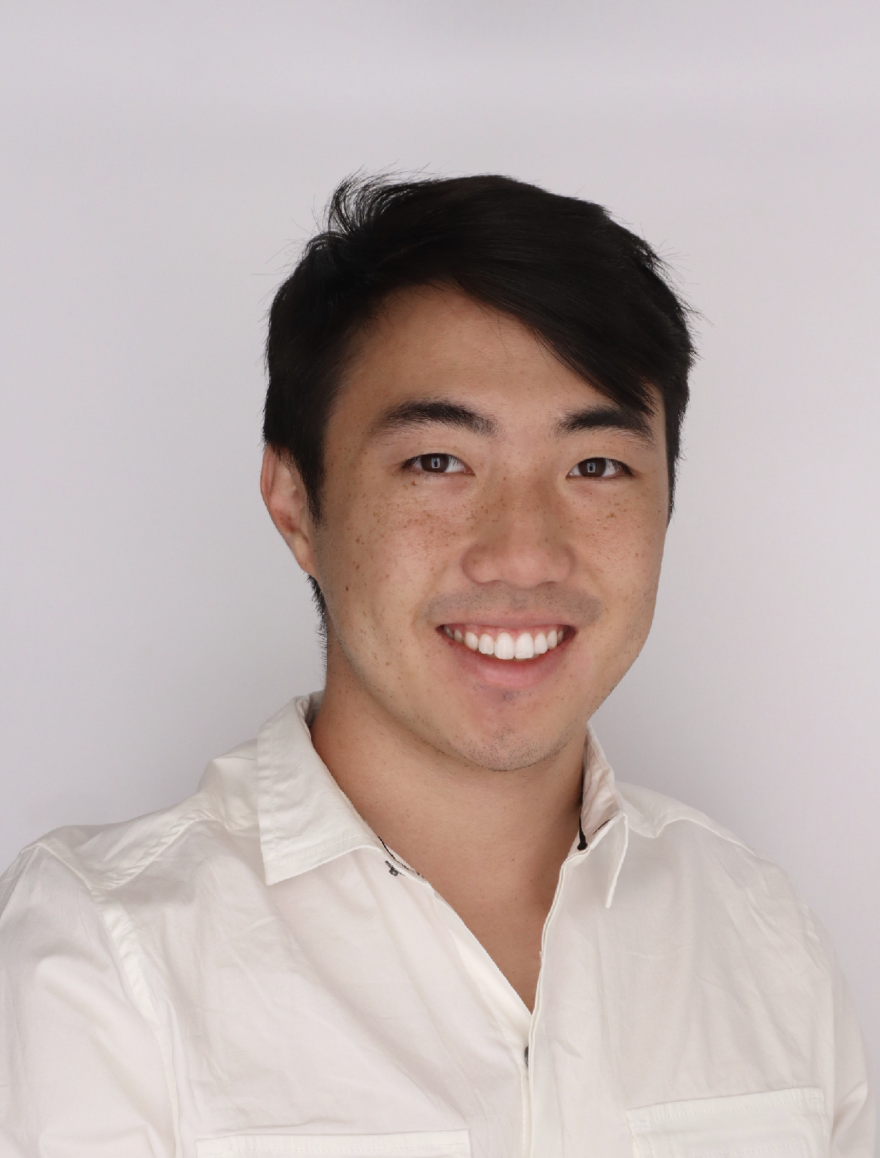
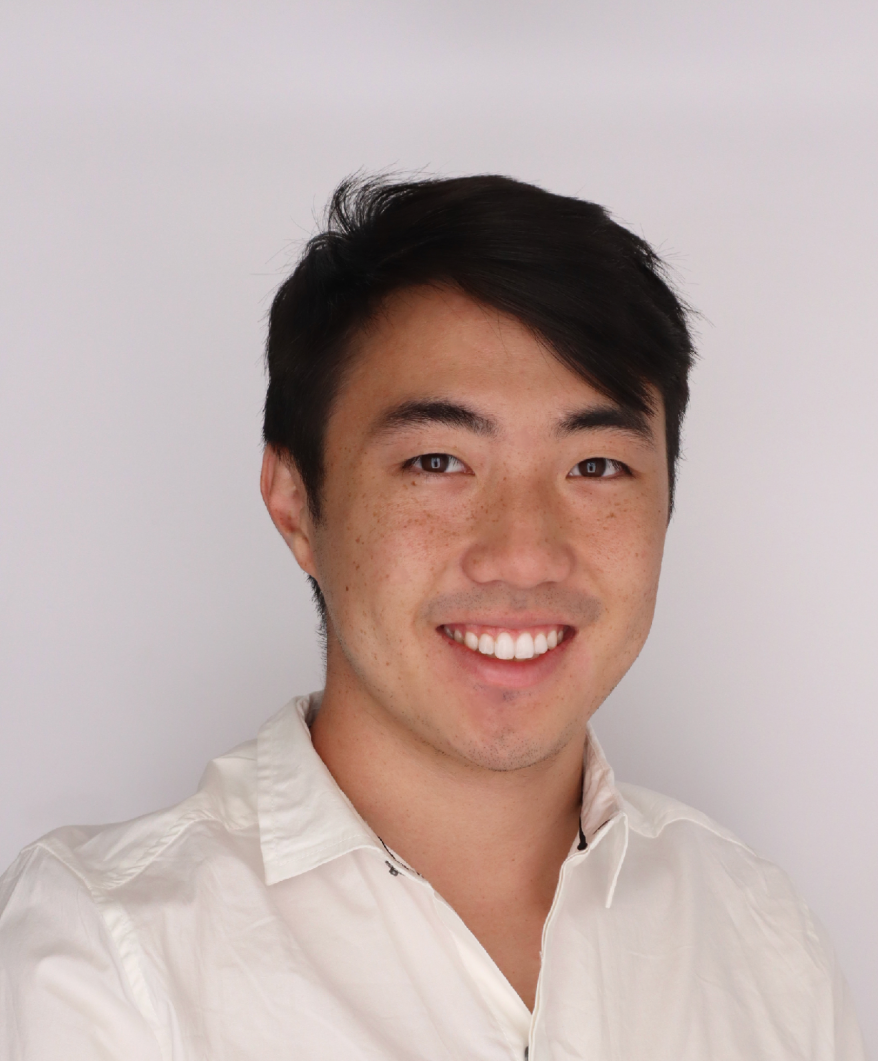
details of board added

diff --git a/src/pgccConstants.js b/src/pgccConstants.js
@@ -1,11 +1,25 @@
 import USER from "./assets/icons/user.png";
 import MONEY from "./assets/icons/money.png";
 import FOLDER from "./assets/icons/folder.png";
+
 import NUMBERONE from "./assets/icons/numbers/1.png";
 import NUMBERTWO from "./assets/icons/numbers/2.png";
 import NUMBERTHREE from "./assets/icons/numbers/3.png";
 import NUMBERFOUR from "./assets/icons/numbers/4.png";
 import NUMBERFIVE from "./assets/icons/numbers/5.png";
+
+import JIHANCHEN from "./assets/headshots/JihanChen.jpg";
+import MARCOSSANCHEZNAVARRO from "./assets/headshots/MarcosSanchezNavarro.jpg";
+import SHIYAONING from "./assets/headshots/ShiyaoNing.jpg";
+import RILKWONG from "./assets/headshots/RilkWong.jpg";
+import ZHIHUISI from "./assets/headshots/ZhihuiSu.jpeg";
+import UTKARSHKHANDELWAL from "./assets/headshots/UtkarshKhandelwal.jpg";
+import ETHANTSE from "./assets/headshots/EthanTse.png";
+import SUSANNABELT from "./assets/headshots/SusannaBelt.jpeg";
+import SIROUWANG from "./assets/headshots/SirouWang.jpg";
+import SEZINADAYAYDIN from "./assets/headshots/SezinAdayAydin.jpg";
+import ALICEHOU from "./assets/headshots/AliceHou.jpg";
+import SHREYASRAORANE from "./assets/headshots/ShreyasRaorane.jpg";
 
 // Navbar
 export const HOME = "";
@@ -60,10 +74,10 @@ export const PGCCGetInvolvedList = [
     id: "PGCCGetInvolved1",
     titleIcon: USER,
     title: "Join Our Executive Board",
-    para: `Are you a graduate candidate or post-doc interested in consulting looking to be part of our organization? Applications now open for co-chair of case competition, VP for finance, VP for career development, and VP for business administration.`,
+    para: `Are you a graduate candidate or post-doc interested in consulting looking to be part of our organization? Applications Open!`,
     buttonText: "Learn more and apply",
     buttonRoute:
-      "https://docs.google.com/forms/d/e/1FAIpQLSfeOiYdNQLtip8O-Hzjzu-NNe0WmE5KBOFTy4bxV4vcfhIO3A/viewform",
+      "https://docs.google.com/forms/d/e/1FAIpQLSfC4CrmC7CDmbE9xSZ7_tMwBMKTfObncPPYZxS0uEaA_rXFKg/viewform",
   },
   {
     id: "PGCCGetInvolved2",
@@ -137,6 +151,117 @@ export const OurFocusList = [
     numImg: NUMBERFIVE,
     numImgAlt: "NUMBERFIVE",
     para: `Helping consulting firms facilitate the recruitment of non-MBA graduate students at Penn`,
+  },
+];
+
+export const execBoardList = [
+  {
+    id: `jihan`,
+    content: `Jihan is a 2nd-year MS candidate in the Computer and Information Technology (MCIT) program in the School of Engineering and Applied Sciences. Prior to becoming Co-President, he was a VP of Marketing Strategy at PGCC in the 2023-2024 academic year. While varied, his career interests include software engineering, product management, technology consulting, and management consulting. As Co-President, Jihan hopes to continue expanding PGCC’s influence on Penn’s campus, level up PGCC’s technological front, and bring more high-quality in-person events and programs to PGCC members and those interested in consulting and business-relevant careers. Outside of PGCC and his CS coursework, Jihan enjoys learning hip-hop and k-pop choreographies, reading, and city-walking.`,
+    name: "Jihan Chen",
+    title: "Co-President",
+    linkedin: "https://www.linkedin.com/in/9912-jihan-chen/",
+    email: "jihanc@seas.upenn.edu",
+    image: JIHANCHEN,
+  },
+  {
+    id: `marcos`,
+    content: `Marcos Sanchez is a 5th year PhD Candidate in the Neuroscience Graduate Group (NGG) at the Perelman School of Medicine. His PhD thesis work seeks to understand how obesity impacts neural circuits encoding the rewarding value of food and regulating appetite to identify more effective pharmacotherapies to treat obesity. Marcos is fascinated by the intersection of science, innovation, and real-world applications; therefore, he is interested in pursuing careers in life science consulting, or more broadly, biopharmaceutical companies. Prior to becoming Co-President, he was a VP of Operations at PGCC in the 2023-2024 academic year. As Co-President of PGCC, Marcos is dedicated to ensuring PGCC continues to improve and provides its members experience and all the necessary tools to succeed in the world of management consulting. Outside of PGCC and the laboratory setting, Marcos is an avid sports fan, enjoys dancing salsa and bachata, playing video games, and loves going to the beach.`,
+    name: "Marcos Sanchez",
+    title: "Co-President",
+    linkedin: "/about",
+    email: "Sanma@pennmedicine.upenn.edu",
+    image: MARCOSSANCHEZNAVARRO,
+  },
+  {
+    id: `shiyao`,
+    content: `Shiyao is a first-year Master of Biotechnology candidate at Penn Engineering. She recently graduated from the University of Toronto with majors in Biochemistry and Human Biology and is now moving into biotechnology consulting and investment. As Co-VP of Marketing Strategy for PGCC, Shiyao aims to enhance PGCC’s impact by engaging the campus community in exploring careers in consulting. She is enthusiastic about leveraging her past experiences at IQVIA management consulting and Mengniu Dairy's Corporate Venture Capital to bring insightful and interactive events to PGCC members. On weekends, Shiyao loves to spend time in nature with her friends and her dog, Tezzy.`,
+    name: "Shiyao Ning",
+    title: "Co-VP of Marketing Strategy",
+    linkedin: "http://linkedin.com/in/sning",
+    email: "sning@seas.upenn.edu",
+    image: SHIYAONING,
+  },
+  {
+    id: `rilk`,
+    content: `Rilk is a 1st-year Master of Science candidate in System Engineering at Penn Engineering. He has recently completed his bachelor degree of science in Financial Mathematics in Xi’an Jiaotong-Liverpool University, China. He has worked at an angel investment company and is interested in Data Analysis, Data Transaction and Tech Consulting. He has been responsible for several transnational landing projects and has rich experience in marketing. As the Co-VP of Marketing Strategy, Rilk hopes to maximize PGCC’s influence and benefit Graduate students at Penn as much as possible. Outside of PGCC and working, Rilk is an avid shutterbug, he also enjoys badminton, basketball and road trips.`,
+    name: "Rilk Wong",
+    title: "Co-VP of Marketing Strategy",
+    linkedin: "/about",
+    email: "rilk@seas.upenn.edu",
+    image: RILKWONG,
+  },
+  {
+    id: `zhihui`,
+    content: `Zhihui Su is a 5th year PhD Candidate in the Chemical and Biomolecular Engineering (CBE) in the School of Engineering and Applied Sciences (SEAS). Her PhD thesis work focuses on building synthetic membraneless organelles with intrinsically disordered protein linked with short coiled-coil peptide motifs. Beyond her research pursuits, Zhihui is deeply passionate about exploring the intersection of biotechnology and business, specifically pharmaceutical and life sciences consulting. Prior to becoming the Co-VP of Casing at PGCC, Zhihui has served as the Treasurer for American Chemical Society Biochemical Division (ACS BIOT) Mid-Atlantic Chapter in the 2021-2024 academic year; received Mini-MBA certificate from Penn Biotech Group (PBG) in 2023; and won fourth place in 2023 PBG Biotech Investment Research Program Pitch Competition. As Co-VP of Casing, Zhihui is dedicated to equipping members with business knowledge and analytical skills and engaging members with case interview workshops. Furthermore, Zhihui is also excited to organize case competition events. In her free time, Zhihui enjoys traveling, hiking, and working out.`,
+    name: "Zhihui Su",
+    title: "Co-VP of Casing",
+    linkedin: "https://www.linkedin.com/in/zhihui-su-813264a4/?locale=en_US",
+    email: "zhihuisu@seas.upenn.edu",
+    image: ZHIHUISI,
+  },
+  {
+    id: `utkarsh`,
+    content: `Utkarsh Khandelwal is a 4th-year PhD candidate in the Materials Science and Engineering (MSE) program in the School of Engineering and Applied Sciences (SEAS) at the University of Pennsylvania. His PhD research focuses on unraveling the complexities of light-matter interaction in quantum materials. Utkarsh is passionate about collaborating with brilliant minds and tackling intricate problems, which drives his academic and professional endeavors. Prior to assuming the role of VP of Casing, Utkarsh was an integral part of the Case-Aces team, which clinched first place in the prestigious 2024 Penn-Yale-Princeton-Columbia (PYPC) Case Competition. His experience in competitive casing has fueled his commitment to creating an engaging learning environment within PGCC, where members can deepen their understanding of case interviews and hone their skills through practice. As VP of Casing, Utkarsh is dedicated to facilitating comprehensive case interview workshops and organizing events that empower members to excel in their consulting pursuits. Outside of his academic and professional commitments, Utkarsh enjoys an active lifestyle. He loves going on runs, exploring nature through hikes, and immersing himself in a good book.`,
+    name: "Utkarsh Khandelwal",
+    title: "Co-VP of Casing",
+    linkedin: "https://www.linkedin.com/in/utkarsh-k-2aa0b5127/",
+    email: "kutkarsh@seas.upenn.edu",
+    image: UTKARSHKHANDELWAL,
+  },
+  {
+    id: `ethan`,
+    content: `Ethan Tse is a 2nd year Masters of Public Health (MPH) student at the Perelman School of Medicine. He completed his undergrad at California Polytechnic State University, San Luis Obispo, with a BS in Public Health and double minors in Entrepreneurship and Tech Policy. Passionate about healthcare, emerging technologies, and social impact, he's navigated a wide array of experiences ranging from PE/VC, consulting, business development, startups, public health research, and entrepreneurship. As a Co-VP of Career Development, Ethan's aims to support his peers in blazing their own trail into the world of consulting and beyond.  At Penn, he's also involved in Wharton Impact Venture Associates and Penn Biotech Group as the Co-VP of Case Competition. In his free time, Ethan can be found playing basketball, running half marathons, relaxing on the Schuylkill river trail, seeing family in NYC, and cultivating his entrepreneurial network.`,
+    name: "Ethan Tse",
+    title: "Co-VP of Career Development",
+    linkedin: "https://www.linkedin.com/in/ethan-tse-story/",
+    email: "ethan.tse@pennmedicine.upenn.edu",
+    image: ETHANTSE,
+  },
+  {
+    id: `susanna`,
+    content: `Susanna Belt is a 4th year doctoral candidate in Chemical and Biomolecular Engineering at the University of Pennsylvania. She completed her undergraduate degree in Chemical and Biological Engineering at Princeton University and her masters degree in Biomedical Engineering from Columbia University, where her research focused on developing bioprosthetic heart valves for use in pediatric patients. Her current research focuses on evaluating how cellular contractility controls extracellular matrix composition and function of developing hearts. It uses a combination of optical live imaging, RNA sequencing techniques, and second harmonic imaging to dissect these mechanosensitive cardiac pathways. Before joining the PGCC E-board as a Co-VP of Career Development, Susanna was on the graduate board for Advancing Women in Engineering (AWE) and was Co-President of the Chemical Engineering Graduate Association (CHEGA). As Co-VP of Career Development for PGCC, she is dedicated to curating events, such as collaborative workshops geared toward aiding students with each step of the hiring process, from resume building to interview prep, designed to not only connect members with not only career opportunities but also PGCC alumni to provide personal insight into the consulting industry. In her free time, she loves painting, traveling to new places, and reading in the rain.`,
+    name: "Susanna Belt",
+    title: "Co-VP of Career Development",
+    linkedin: "https://www.linkedin.com/in/susanna-belt/",
+    email: "sbelt@seas.upenn.edu",
+    image: SUSANNABELT,
+  },
+  {
+    id: `sirou`,
+    content: `Sirou Wang is a 2nd year student at the University of Pennsylvania majoring in Interdisciplinary Studies in Human Development with a concentration in basic counseling. With a strong background as an analyst and project manager on the PGCC Spotivity pro bono project, Sirou hopes to better PGCC by diversifying its projects and initiatives. In addition to her work with PGCC, Sirou was involved with the Penn Biotech Group as an analyst and is currently interning at Think Advanced Learning (TAL or Xue Er Si) as a course development intern. Alongside her internship, she runs her own English learning program. Sirou is passionate about pursuing opportunities related to education, educational consulting, and entrepreneurship. In her free time, she enjoys traveling, hanging out, yapping, painting, and playing the guitar.`,
+    name: "Sirou Wang",
+    title: "Co-VP of Pro Bono Projects",
+    linkedin: "https://www.linkedin.com/in/rose-wang-b4193b1b2",
+    email: "sirou@upenn.edu",
+    image: SIROUWANG,
+  },
+  {
+    id: `sezin`,
+    content: `Sezin is a postdoctoral fellow and project manager in the Bioengineering Department. She is an experienced researcher and tech transfer enthusiast who wants to create successful products/services that can significantly impact life sciences and improve patients' lives. Her research interests cover cell culture models, including organ-on-a-chip systems; micro- and nano-technologies for regenerative medicine; miRNAs in health and disease/injury; extracellular vesicles as therapeutics and biomarkers; and therapeutic angiogenesis. Before becoming the Co-VP of Pro Bono Projects at PGCC, Sezin was involved in 8 pro bono projects as manager/director. She was also a Penn Center for Innovation (PCI) fellow and a biotech venture team member. She got 2nd prize with her team at the Penn-Yale-Princeton, Columbia (PYPC) Case Competition and 1st prize at the PGCC Casebook Competition in 2023. As Co-VP of Pro Bono Projects, she aims to provide pro bono project opportunities that align with the interests of PGCC members and to attract new industry partners for the continuous growth of the club. She enjoys journaling, reading, and spending time with her cats in her free time.`,
+    name: "Sezin Aday Aydin",
+    title: "Co-VP of Pro Bono Projects",
+    linkedin: "https://www.linkedin.com/in/sezin-aday-aydin/",
+    email: "sezin@seas.upenn.edu",
+    image: SEZINADAYAYDIN,
+  },
+  {
+    id: `alice`,
+    content: `Alice is an incoming Master of Biotechnology candidate at Penn Engineering. She graduated from Emory University in 2023 with a major in Biology and a minor in Economics. Currently, she works in the neurology lab at the Children's Hospital of Philadelphia, supporting translational research on patients with Leukodystrophy. Alice is particularly passionate about pursuing a career in the healthcare field. As the VP of Finance, Alice will bring valuable experience from her previous role, where she developed her skills in financial management and organizational leadership. In this role, she aims to secure sponsorships, manage the club's budget, and ensure financial transparency. Alice will work closely with other divisions to allocate resources effectively and support various initiatives and activities. Outside of her professional and academic pursuits, Alice enjoys playing tennis with friends and singing acapella. She also shares her home with two beloved cats.`,
+    name: "Alice Hou",
+    title: "VP of Finance",
+    linkedin: "/about",
+    email: "zhou639@seas.upenn.edu",
+    image: ALICEHOU,
+  },
+  {
+    id: `shreyas`,
+    content: `Shreyas is a first-year Master of Robotics candidate at Penn Engineering with two years of professional experience in software development. During this time, he has honed his skills in website development, contributing to a range of projects with enthusiasm and precision. Shreyas is now eager to bring his expertise and innovative approach to PGCC, where he aims to make a meaningful impact. In his role as VP of Technology, apart from revamping the website, he plans to introduce new digital tools and platforms to streamline data collection and optimize event management. Outside of work and academics, he enjoys swimming and playing chess, finding these activities both refreshing and intellectually stimulating.`,
+    name: "Shreyas Raorane",
+    title: "VP of Technology",
+    linkedin: "https://www.linkedin.com/in/shreyas-raorane/",
+    email: "raorane@seas.upenn.edu",
+    image: SHREYASRAORANE,
   },
 ];
 

diff --git a/src/features/About/ExecBoard/PersonCard/PersonCard.jsx b/src/features/About/ExecBoard/PersonCard/PersonCard.jsx
@@ -5,7 +5,11 @@ import { Link } from "react-router-dom";
 
 const PersonCard = ({ person }) => (
   <div className="bg-white border rounded-lg overflow-hidden my-2">
-    <img className="w-full object-cover" src={person.image} alt={person.name} />
+    <img
+      className="w-full h-64 object-cover"
+      src={person.image}
+      alt={person.name}
+    />
     <div className="p-5">
       <div>
         <p className="font-bold text-xl">{person.name}</p>
@@ -16,7 +20,6 @@ const PersonCard = ({ person }) => (
           <Link to={person.linkedin} target="_blank">
             <img src={LinkedIn} className="w-8 h-8 mr-2" alt="linkedin" />
           </Link>
-
           {person.email && (
             <Link to={`mailto:${person.email}`}>
               <img src={Mail} className="w-8 h-8" alt="mail" />
